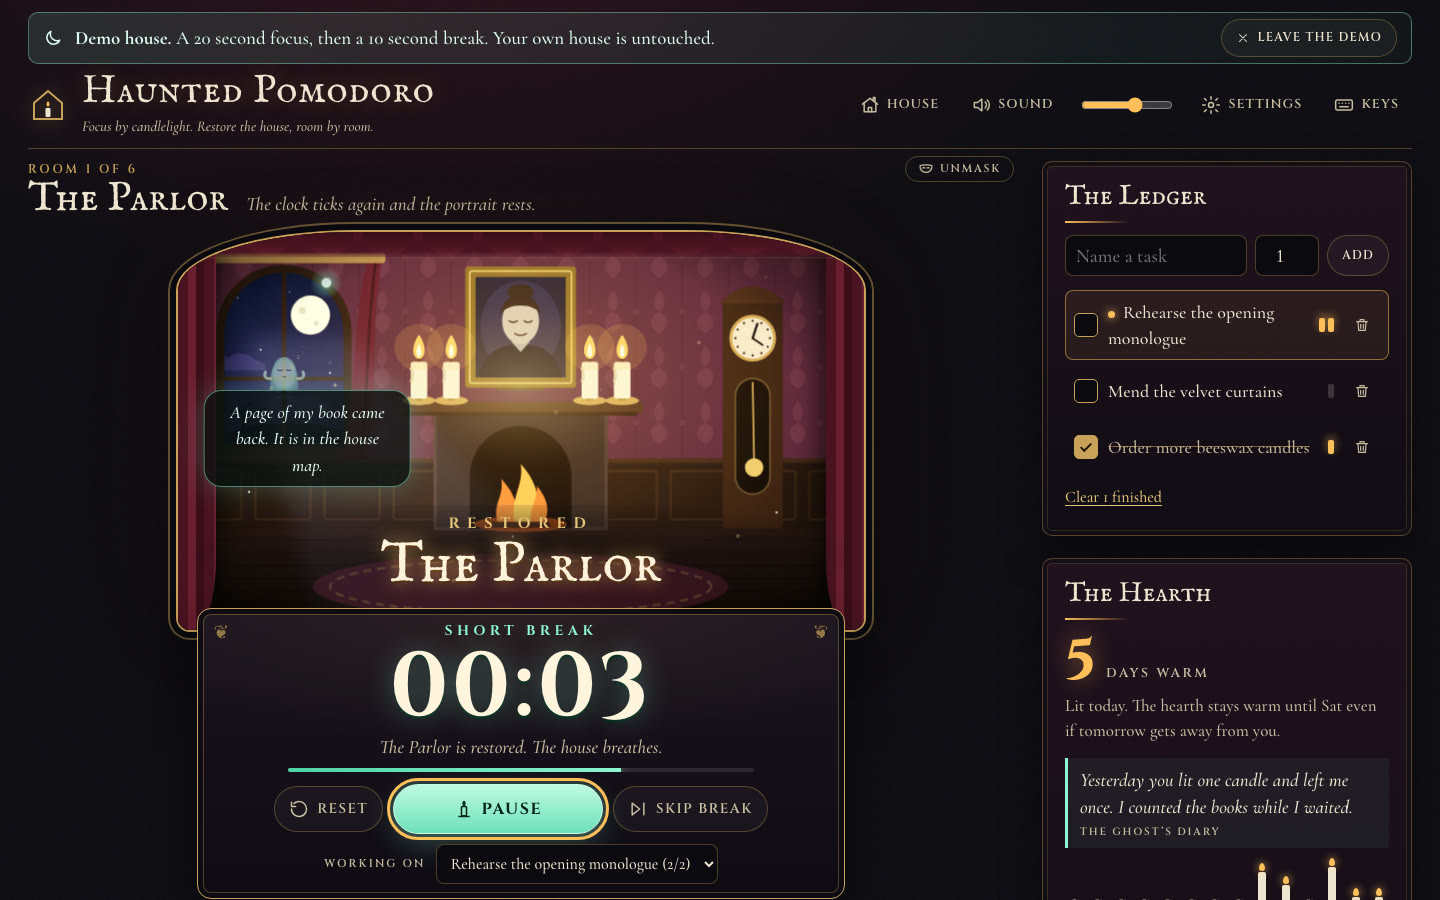
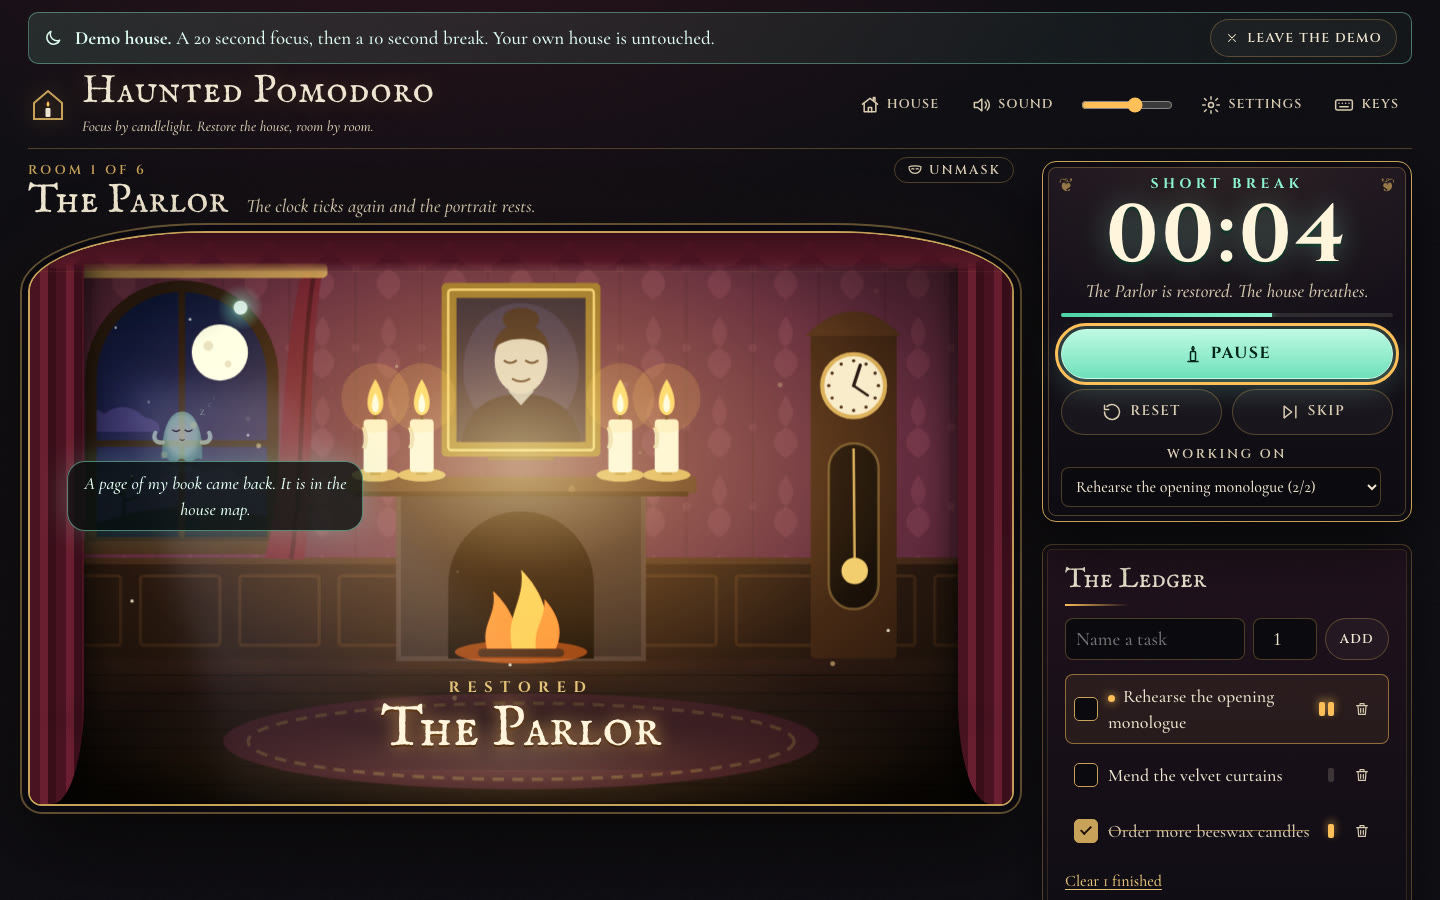
Re-record the README media for the new stage and add the postcard
The hero GIF now shows the whole stage at 800 px, with a small browser
tab drawn over its corner that shows the page's real title, so "Come
back... 00:14 left" reads without sound. The stills follow the costume
change, the restored still waits for the Restored caption, and the
media script saves the week's postcard from ?demo=week, which the
README shows beside the costume-off and finale stills.

diff --git a/README.md b/README.md
@@ -4,7 +4,7 @@
 
 A real Pomodoro timer wearing a haunted house. Every focus session lights a candle. Wander to another tab and a lonely ghost wakes, calls you back and counts the comeback, without taking anything away. Finished sessions restore the house room by room. Built for Kiroween 2026 (Costume Contest) by Stubborn Otter Software.
 
-![The demo in thirteen seconds: the drapes part on a haunted parlor, a candle is lit, the ghost wakes when the tab is left and greets the person on return, and a warm sweep restores the room](docs/media/hero.gif)
+![The demo in twelve seconds: a candle is lit in a haunted parlor, the ghost wakes when the tab is left while the tab title reads Come back, 14 seconds left, she greets the person on return, the room warms as the session runs, and a warm sweep restores it](docs/media/hero.gif)
 
 **Kiro at a glance:** 2 specs · 172 EARS criteria, 163 traced to tests · 9 hooks on 6 triggers · 5 steering files · 2 MCP servers · 1 custom agent · 1 logged Kiro session (16.02 credits) that caught a spec bug and built two features. [Built with Kiro](#built-with-kiro) · [KIRO-LOG.md](KIRO-LOG.md)
 
@@ -26,9 +26,9 @@ A real Pomodoro timer wearing a haunted house. Every focus session lights a cand
 |---|---|---|
 | ![The parlor, still haunted, with cobwebs and a staring portrait](docs/screenshots/haunted.jpg) | ![The ghost has drifted closer and says: there you are, I kept your candle lit](docs/screenshots/ghost.jpg) | ![The parlor restored: warm colors, the portrait asleep, the Restored caption on the rug](docs/screenshots/restored.jpg) |
 
-| Costume off (press U) | The last page (`?demo=finale`) |
-|---|---|
-| ![The same session as a plain Pomodoro: a progress bar, distraction counts, sessions toward the goal and the streak, each labelled with the part of the house behind it](docs/screenshots/costume-off.jpg) | ![The house map opened on the journal's last page, a new dark house in front and the finished house lit up the hill](docs/screenshots/finale.jpg) |
+| Costume off (press U) | The last page (`?demo=finale`) | The week's postcard (`?demo=week`) |
+|---|---|---|
+| ![The same session as a plain Pomodoro: a progress bar, comeback counts, sessions toward the goal and the streak, each labelled with the part of the house behind it](docs/screenshots/costume-off.jpg) | ![The house map opened on the journal's last page, a new dark house in front and the finished house lit up the hill](docs/screenshots/finale.jpg) | ![A postcard of the house at night with two windows lit and the ghost in a third: 16 candles, 8 comebacks, time away fell from 55 min to 13 min](docs/screenshots/postcard.jpg) |
 
 ## Why this is a costume
 Take the costume off and every part still works as a timer: the candle is the progress bar, the ghost is the comeback counter, the Hearth is the streak, the house map is the long-term record, and breaks are the house breathing. Leaving the tab *is* what wakes the ghost. Press **U** and the costume really comes off.

diff --git a/CHANGELOG.md b/CHANGELOG.md
@@ -1,6 +1,7 @@
 # Changelog
 
 ## Unreleased
+- **Fresh media for the new layout.** `npm run media` records the whole stage now that nothing covers it, at 800 px wide (`GIF_WIDTH` to change it), with a small browser tab drawn over the corner of the film that shows the page's real title, so "Come back… 00:14 left" reads without sound. It follows the costume change in the stills and saves the week's postcard from `?demo=week` beside them. The README shows the postcard next to the costume-off and finale stills.
 - **A week to show, and a postcard to share.** `?demo=week` opens a demo house with two made-up weeks of history, so the weekly reflection ("time away fell from 55 min to 13 min") and the 14-day chart have something to show; the Hearth comes first and the banner links to it. The Hearth's new **Save this week's postcard** button saves a 1200x630 PNG of the house from outside, with a lamp in every restored window, the week's candles and comebacks and a line from the ghost.
 - **The candle pays off.** The struck flame now flares larger, and a warm pool of candlelight spreads from the mantel over the wall and the rug as the session runs, so the room warms visibly minute by minute and stays warm once restored. A haunted room is eerier: its edges are darker, and about every 19 seconds lightning flashes twice in the window and along the moonbeam (never under reduced motion).
 - **A bigger stage.** On a desktop the timer moves to the top of the right-hand column, above the ledger, so the stage takes the whole left column (about two thirds of the width at 1440x900) and nothing covers the rug or the Restored caption. On a phone the stage runs edge to edge at 280 px tall, each toolbar icon has a word under it, a long task name is cut short in the "Working on" list, and the skip button reads "Skip" while still announcing what it skips. Small capitals are at least 13 px, secondary text is brighter, and the ghost's words hang beside her, clear of the portrait and the clock face.
